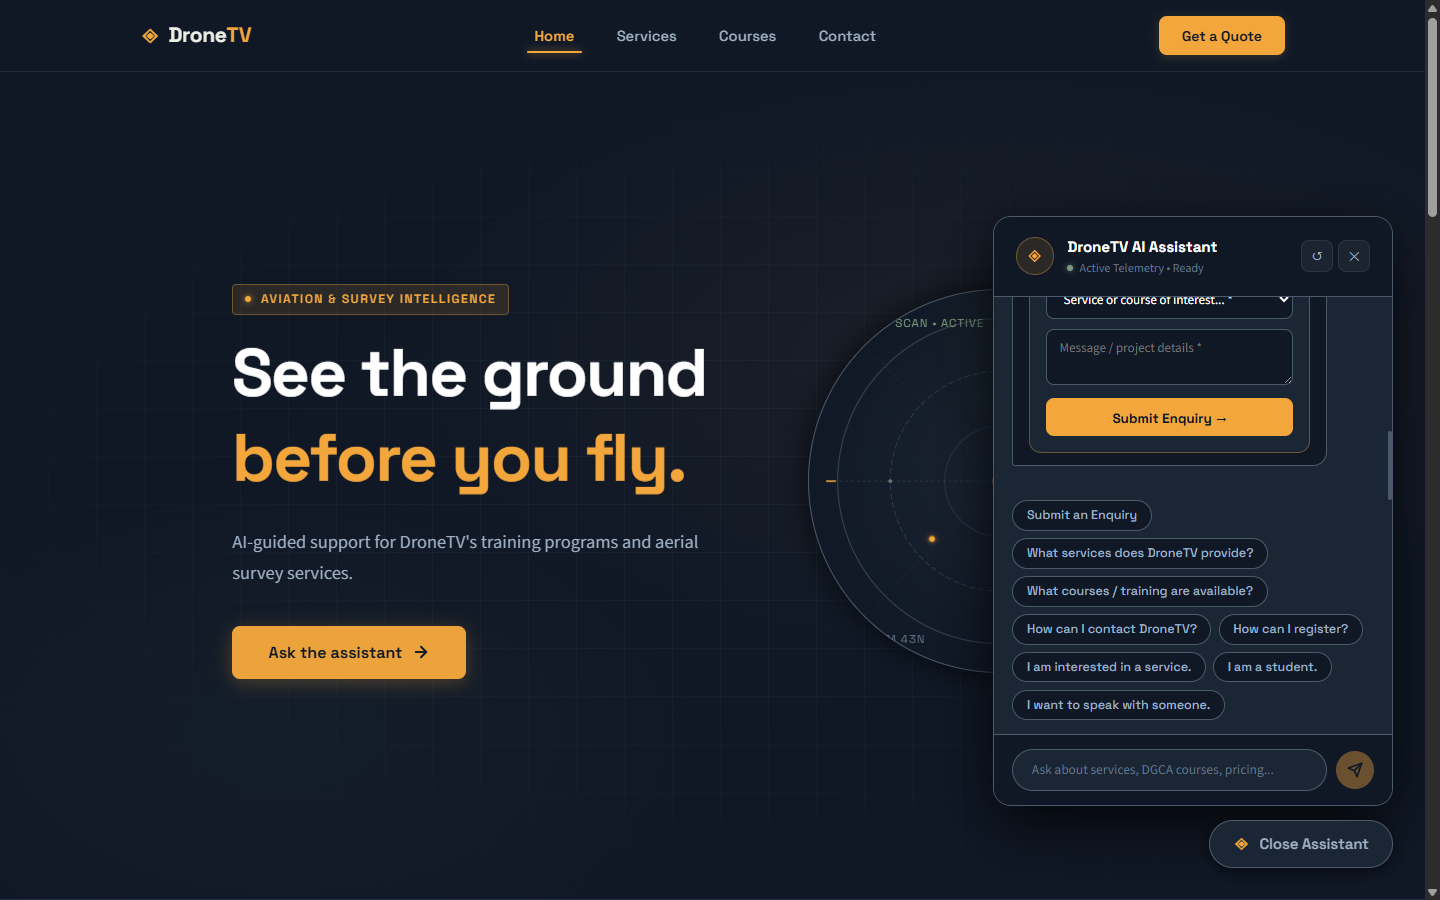
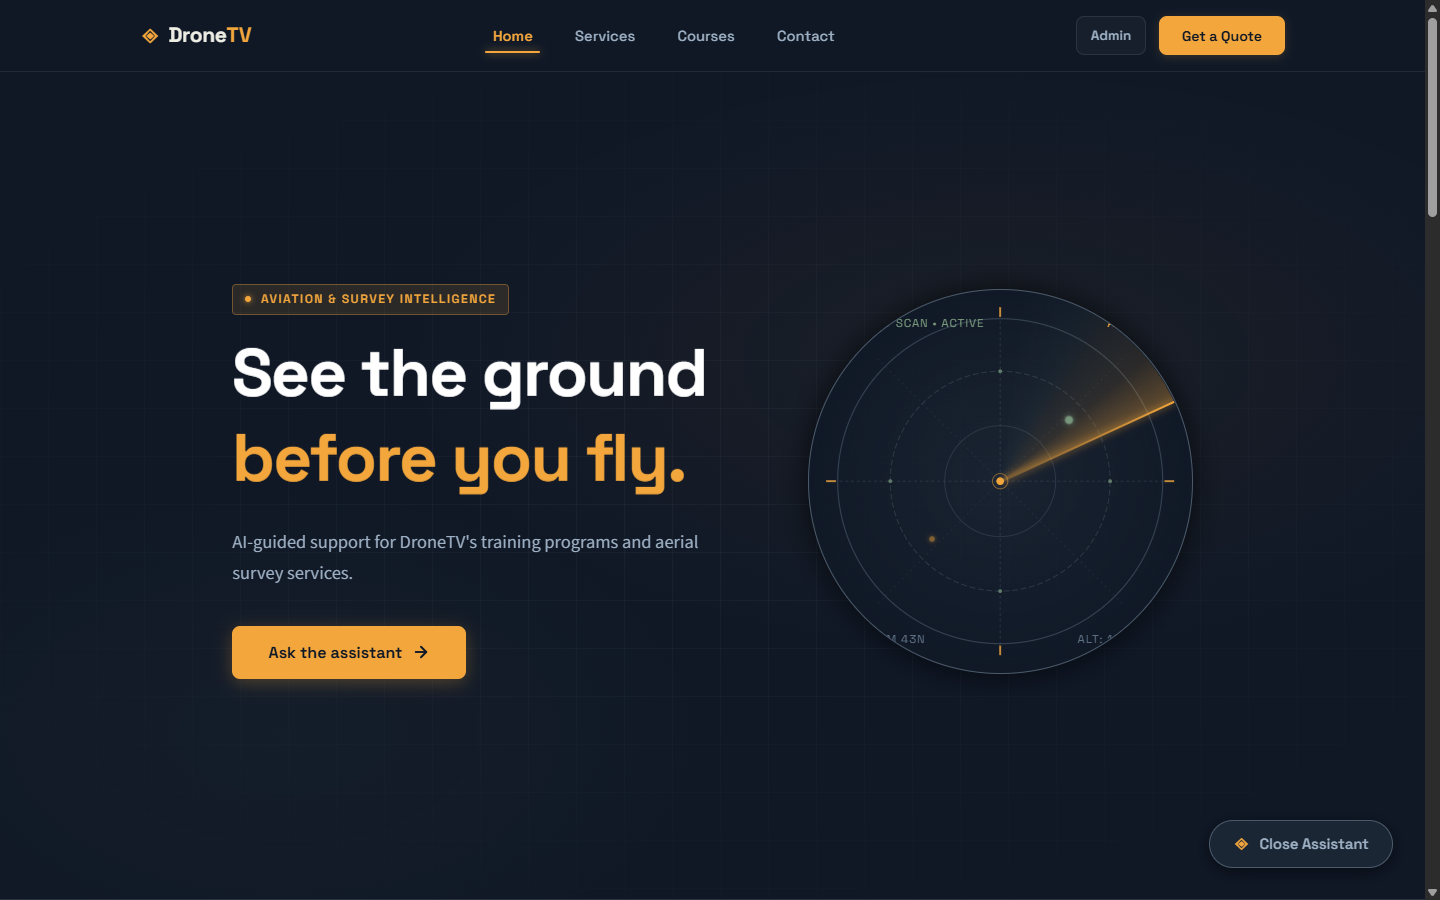
fix: restore Admin button to desktop and mobile navbar with updated screenshots

diff --git a/frontend/src/components/Navbar/navbar.tsx b/frontend/src/components/Navbar/navbar.tsx
@@ -134,6 +134,9 @@ export default function Navbar() {
 
         {/* Header Action */}
         <div className="navbar-action">
+          <Link to="/admin" className="navbar-admin-link">
+            Admin
+          </Link>
           <button className="btn-primary navbar-cta" onClick={() => scrollToSection('contact')}>
             Get a Quote
           </button>
@@ -165,7 +168,15 @@ export default function Navbar() {
               </button>
             )
           })}
-          <div className="mobile-cta-wrap">
+          <div className="mobile-cta-wrap" style={{ display: 'flex', flexDirection: 'column', gap: '0.6rem' }}>
+            <Link 
+              to="/admin" 
+              className="btn-secondary" 
+              style={{ width: '100%', textAlign: 'center', justifyContent: 'center' }}
+              onClick={() => setMenuOpen(false)}
+            >
+              Admin Dashboard
+            </Link>
             <button 
               className="btn-primary" 
               style={{ width: '100%' }} 
